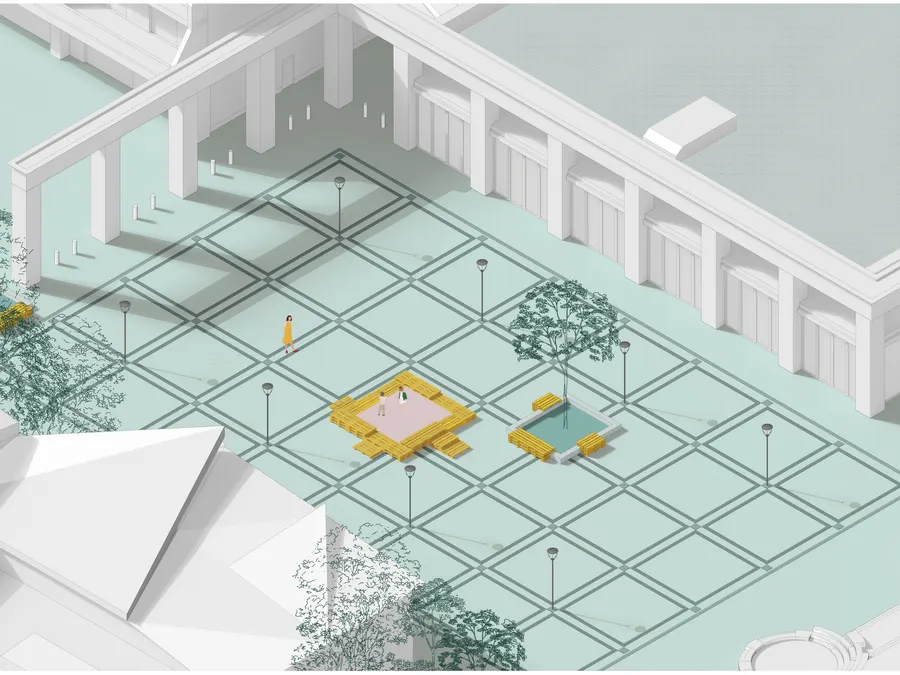
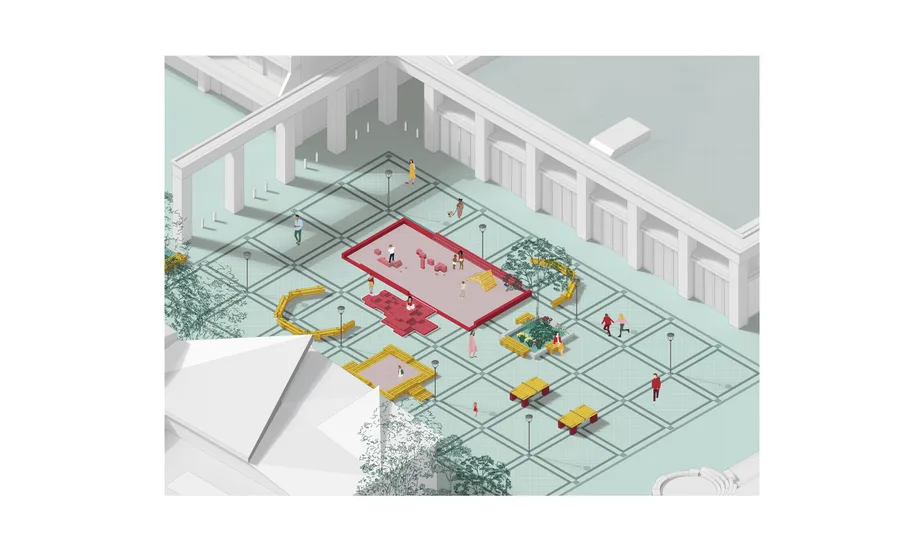
Update stage 1 and 2 poster images with new renders
Bump MODEL_VERSION to invalidate the 1-hour poster cache on kiosk devices.

diff --git a/main.js b/main.js
@@ -33,7 +33,7 @@ function stageAt(i) {
 // before a re-scale can keep serving the stale one for up to an hour.
 // Bump this whenever a stage's model file is regenerated so every deploy
 // forces a fresh fetch regardless of that cache.
-const MODEL_VERSION = "10";
+const MODEL_VERSION = "11";
 
 function withVersion(url) {
   return url ? `${url}?v=${MODEL_VERSION}` : url;